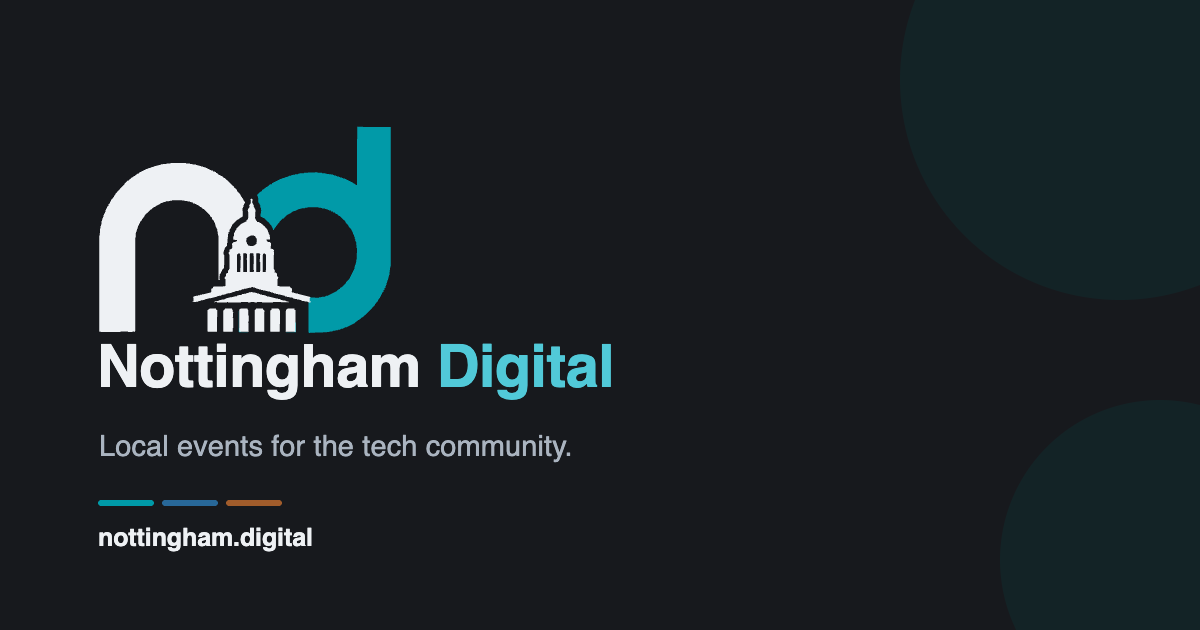
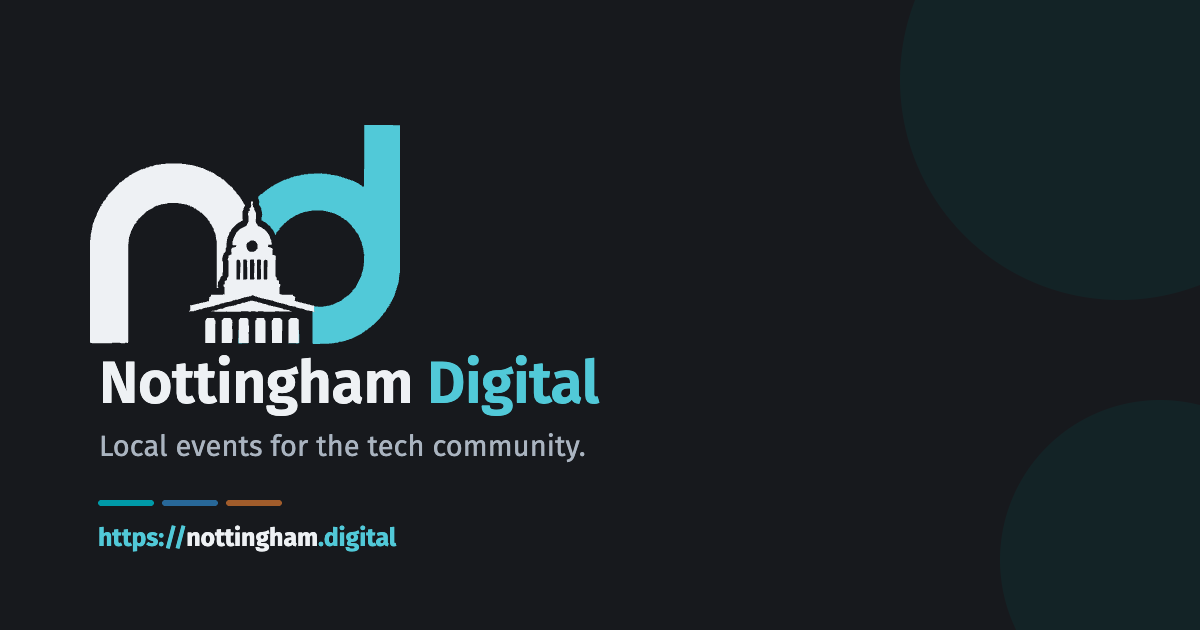
Updated image to add protocol, and added a generation script for when we inevitably want to change something again.

diff --git a/src/assets/social/og-image.html b/src/assets/social/og-image.html
@@ -1,0 +1,41 @@
+<!doctype html>
+<html lang="en">
+<head>
+  <meta charset="utf-8" />
+  <link rel="preconnect" href="https://fonts.googleapis.com" />
+  <link rel="preconnect" href="https://fonts.gstatic.com" crossorigin />
+  <link href="https://fonts.googleapis.com/css2?family=Fira+Sans:wght@400;600;700&display=block" rel="stylesheet" />
+  <style>
+    * { box-sizing: border-box; }
+    html, body { margin: 0; width: 1200px; height: 630px; overflow: hidden; }
+    body { background: #17191d; color: #eef1f4; font-family: 'Fira Sans', sans-serif; }
+    .orb { position: absolute; border-radius: 50%; background: #132326; }
+    .orb--top { width: 440px; height: 440px; right: -140px; top: -140px; }
+    .orb--bottom { width: 320px; height: 320px; right: -120px; bottom: -90px; }
+    .mark { position: absolute; top: 125px; left: 90px; width: 310px; height: auto;
+      --logo-ink: #eef1f4; --logo-accent: #51c9d8; }
+    .title { position: absolute; top: 350px; left: 99px; margin: 0; font-size: 59px;
+      line-height: 1.15; font-weight: 600; letter-spacing: -.4px; }
+    .title span { color: #51c9d8; }
+    .tagline { position: absolute; top: 430px; left: 99px; margin: 0; color: #aab4c0;
+      font-size: 29px; line-height: 1.2; letter-spacing: .1px; }
+    .rules { position: absolute; top: 500px; left: 98px; display: flex; gap: 8px; }
+    .rules span { display: block; width: 56px; height: 6px; border-radius: 4px; }
+    .rules span:nth-child(1) { background: #009aa8; }
+    .rules span:nth-child(2) { background: #286899; }
+    .rules span:nth-child(3) { background: #a15c2b; }
+    .url { position: absolute; top: 523px; left: 98px; margin: 0; font-size: 25px;
+      line-height: 1.2; font-weight: 700; letter-spacing: -.1px; }
+    .url span { color: #51c9d8; }
+  </style>
+</head>
+<body>
+  <div class="orb orb--top"></div><div class="orb orb--bottom"></div>
+  <!-- Replaced with an inline SVG by scripts/render-og-image.mjs. -->
+  <img class="mark" src="img/nd-monogram.svg" alt="" />
+  <h1 class="title">Nottingham <span>Digital</span></h1>
+  <p class="tagline">Local events for the tech community.</p>
+  <div class="rules"><span></span><span></span><span></span></div>
+  <p class="url"><span class="protocol">https://</span>nottingham<span>.digital</span></p>
+</body>
+</html>

diff --git a/README.md b/README.md
@@ -43,6 +43,17 @@ npm run preview  # serve the built site
 npm run check    # type-check components and content
 ```
 
+### Open Graph image
+
+[`src/assets/social/og-image.html`](src/assets/social/og-image.html) is the
+1200 × 630 source for the social sharing image. After changing it, regenerate
+[`public/img/og-image.png`](public/img/og-image.png) with:
+
+```sh
+npx playwright install chromium # first time only
+npm run render:og-image
+```
+
 ### Project layout
 
 | Path | What it is |
@@ -53,6 +64,8 @@ npm run check    # type-check components and content
 | `src/styles/tokens.css` | **All** colours, fonts and spacing |
 | `src/components/Logo.astro` | The site wordmark |
 | `src/assets/nd-monogram.svg` | The "nd" mark, traced from the logo artwork |
+| `src/assets/social/og-image.html` | Source template for the 1200 × 630 Open Graph image |
+| `scripts/render-og-image.mjs` | Renders the Open Graph image template to `public/img/og-image.png` |
 | `src/data/analytics.ts` | The GoatCounter endpoint — the only analytics config |
 | `scripts/check-live-site.mjs` | Daily health check run against the published site |
 | `.github/workflows/deploy.yml` | Build and publish to GitHub Pages |
